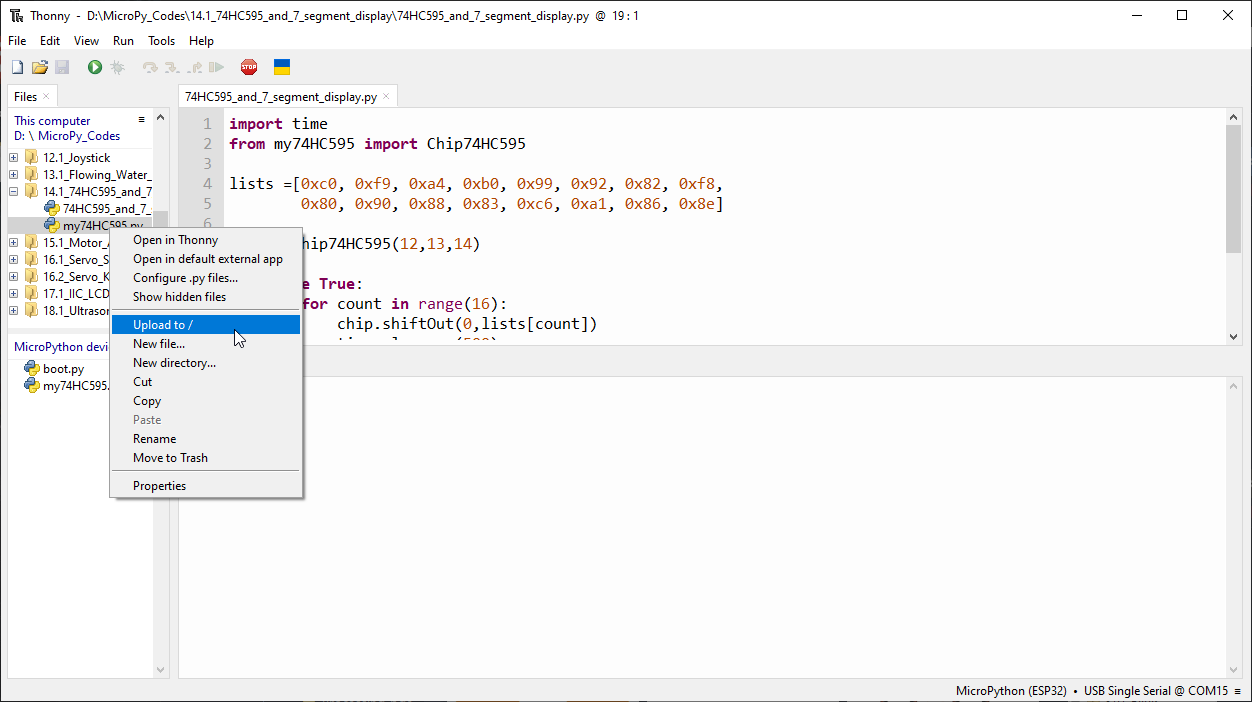
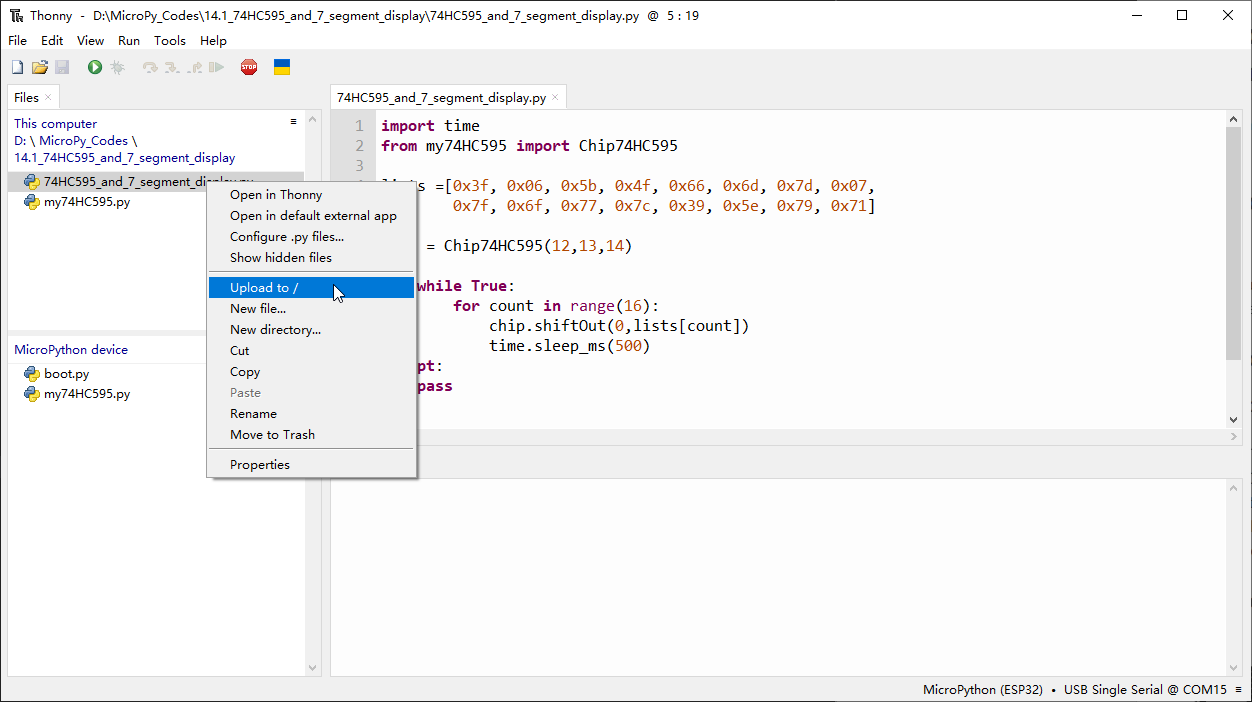
修改了python教程的一些错误

diff --git a/docs/source/2.Python_Tutorial/21_tcpip.rst b/docs/source/2.Python_Tutorial/21_tcpip.rst
@@ -31,24 +31,23 @@ Install ControlP5.
 
 .. image:: img/other/processing0.png
     
-Open the “Super_Starter_Kit_for_ESP32_S3\Sketches\Sketches\Sketch_20.1_W
-iFiClient\sketchWiFi\sketchWiFi.pde”, and click "Run".
+Open the “Super_Starter_Kit_for_ESP32_S3\\processing\\Processing_wifi.pde”, and click "Run".
 
 .. image:: img/other/processing_code.png
 
 The new pop-up interface is as follows. If ESP32-S3 is used as client, select 
-TCP SERVER mode for sketchWiFi
+TCP SERVER mode for Processing_wifi
 
 .. image:: img/other/processing4.png
 
-When sketchWiFi selects TCP SERVER mode, ESP32-S3 Sketch needs to be changed 
-according to sketchWiFi's displaying of LOCAL IP or LOCAL PORT.
+When Processing_wifi selects TCP SERVER mode, ESP32-S3 Sketch needs to be changed 
+according to Processing_wifi's displaying of LOCAL IP or LOCAL PORT.
 
-If ESP32-S3 serves as server, select TCP CLIENT mode for sketchWiFi.
+If ESP32-S3 serves as server, select TCP CLIENT mode for Processing_wifi.
 
-.. image:: img/other/processing4.png
+.. image:: img/other/processing4-1.png
 
-When sketchWiFi selects TCP CLIENT mode, the LOCAL IP and LOCAL PORT of sketchWiFi 
+When Processing_wifi selects TCP CLIENT mode, the LOCAL IP and LOCAL PORT of Processing_wifi 
 need to be changed according to the IP address and port number printed by the serial 
 monitor.
 
@@ -79,14 +78,14 @@ Connect
 
 Code
 ^^^^^^^^^^^
-Before running the Code, please open “sketchWiFi.pde.” first, and click “Run”.
+Before running the Code, please open “Processing_wifi.pde.” first, and click “Run”.
 
 .. image:: img/other/processing_code.png
 
 The newly pop up window will use the computer’s IP address by default and open a 
 data monitor port. Click “Listening”。
 
-.. image:: img/other/processing4.png
+.. image:: img/other/processing4-2.png
 
 Move the program folder “Super_Starter_Kit_for_ESP32_S3/Python/Python_C
 odes” to disk(D) in advance with the path of “D:/Micropython_Codes”.
@@ -103,11 +102,11 @@ in the box below:
 .. image:: img/software/21.1.png
 
 Click “Run current script” and in “Shell”, you can see ESP32-S3 automatically 
-connects to sketchWiFi.
+connects to Processing_wifi.
 
 .. image:: img/software/21.1-1.png
 
-If you don’t click “Listening” for sketchWiFi, ESP32-S3 will fail to connect and 
+If you don’t click “Listening” for Processing_wifi, ESP32-S3 will fail to connect and 
 will print information as follows:
 
 .. image:: img/software/21.1-2.png
@@ -180,11 +179,11 @@ Code
 Move the program folder “Super_Starter_Kit_for_ESP32_S3/Python/Python_C
 odes” to disk(D) in advance with the path of “D:/Micropython_Codes”.
 
-Open “Thonny”, click “This computer” >> “D:” >> “Micropython_Codes” >> “21.2_TCP_a
-s_Server” and double click “TCP_as_Server.py”.
+Open “Thonny”, click “This computer” >> “D:” >> “Micropython_Codes” >> “21.2_TCP_as_Server” and double click “TCP_as_Server.py”.
 
 Before clicking “Run current script”, please modify the name and password of your 
 router shown in the box below.
+
 **21.2_TCP_as_Server**
 
 .. image:: img/software/21.2.png
@@ -196,15 +195,15 @@ waiting to connecting to other network devices.
 .. image:: img/software/21.2-1.png
 
 Processing： Open the “Super_Starter_Kit_for_ESP32_S3/Codes/MicroPytho
-n_Codes/21.2_TCP_as_Server/ sketchWiFi/sketchWiFi.pde”. Based on the message 
+n_Codes/21.2_TCP_as_Server/sketchWiFi/Processing_wifi.pde”. Based on the message 
 printed in "Shell", enter the correct IP address and port when processing, and 
 click to establish a connection with ESP32-S3 to communicate.
 
 .. image:: img/software/21.2-2.png
 
-You can enter any information in the “Send Box” of sketchWiFi. Click “Send” and 
+You can enter any information in the “Send Box” of Processing_wifi. Click “Send” and 
 ESP32-S3 will print the received messages to “Shell” and send them back to 
-sketchWiFi.
+Processing_wifi.
 
 .. image:: img/software/21.2-3.png
 

diff --git a/docs/source/2.Python_Tutorial/13_74hc595&led_bar_graph.rst b/docs/source/2.Python_Tutorial/13_74hc595&led_bar_graph.rst
@@ -28,14 +28,16 @@ Connect
 
 Code
 ^^^^^^^
-n this project, we will make a flowing water light with a 74HC595 chip to learn 
+In this project, we will make a flowing water light with a 74HC595 chip to learn 
 about its functions. Move the program folder “Super_Starter_Kit_for_ESP
 32_S3/Python/Python_Codes” to disk(D) in advance with the path of “D:/Micropyth
 on_Codes”. 
+
 Open “Thonny”, click “This computer” >> “D:” >> “Micropython_Codes” >> “1
 3.1_Flowing_Water_Light”. Select “my74HC595.py”, right click your mouse to selec
 t “Upload to /”, wait for “my74HC595.py”to be uploaded to ESP32-S3 and then doub
 le click “Flowing_Water_Light.py”.
+
 **13.1_Flowing_Water_Light**
 
 .. image:: img/software/13.1.png

diff --git a/docs/source/2.Python_Tutorial/4_analog&pwm.rst b/docs/source/2.Python_Tutorial/4_analog&pwm.rst
@@ -34,6 +34,7 @@ folder “Super_Starter_Kit_for_ESP32_S3/Python/Python_Codes” to disk(D)
 in advance with the path of “D:/Micropython_Codes”. Open “Thonny”，click“This 
 computer” >> “D:” >> “Micropython_Codes” >> “04.1_BreatheLight” and double click 
 “BreatheLight.py”.
+
 **04.1_BreatheLight**
 
 .. image:: img/software/4.1.png
@@ -89,6 +90,7 @@ Flowing Light with tail was implemented with PWM. Open “Thonny”, click “Th
 computer” >> “D:” >> “Micropython_Codes” >> “04.2_FlowingLight”. Select “pwm.py”, 
 right click to select “Upload to /”, wait for “pwm.py” to be uploaded to ESP32-S
 3 and then double click “FlowingLight.py”.
+
 **04.2_FlowingLight**
 
 .. image:: img/software/4.2.png

diff --git a/docs/source/2.Python_Tutorial/14_74hc595&7-segment_display.rst b/docs/source/2.Python_Tutorial/14_74hc595&7-segment_display.rst
@@ -44,7 +44,7 @@ gment_display.py”.
 Click “Run current script”，and you'll see a 1-bit, 7-segment display displaying 
 0-f in a loop.
 
-.. image:: img/phenomenon/15.1.png
+.. image:: img/phenomenon/14.1.png
 
 Code
 ^^^^^^
@@ -55,8 +55,8 @@ The following is the program code:
     import time
     from my74HC595 import Chip74HC595
 
-    lists =[0xc0, 0xf9, 0xa4, 0xb0, 0x99, 0x92, 0x82, 0xf8,
-            0x80, 0x90, 0x88, 0x83, 0xc6, 0xa1, 0x86, 0x8e]
+    lists =[0x3f, 0x06, 0x5b, 0x4f, 0x66, 0x6d, 0x7d, 0x07,
+            0x7f, 0x6f, 0x77, 0x7c, 0x39, 0x5e, 0x79, 0x71]
 
     chip = Chip74HC595(12,13,14)
     try:
@@ -66,6 +66,7 @@ The following is the program code:
                 time.sleep_ms(500)
     except:
         pass
+
 
 
 

diff --git a/docs/source/2.Python_Tutorial/1_led.rst b/docs/source/2.Python_Tutorial/1_led.rst
@@ -51,7 +51,7 @@ the illustration below.
 
 Make sure ESP32-S3 has been connected with the computer with ESP32-S3 correctly. 
 Click “Stop/Restart backend” or press the reset button, and then wait to see what 
-interface will show up.
+interface will sho  w up.
 
 .. image:: img/software/1.2.png
 
@@ -66,12 +66,17 @@ and the LED in the circuit starts to blink.
 .. image:: img/software/1.3.png
 
 **Uploading code to ESP32S3**
+
 As shown in the following illustration, right-click the file Blink.py and select 
 “Upload to /” to upload code to ESP32S3.
 
 .. image:: img/software/1.4.png
 
 Upload boot.py in the same way.
+
+.. image:: img/software/1.5-1.png
+
+.. image:: img/software/1.5-2.png
 
 .. image:: img/software/1.5.png
 

diff --git a/docs/source/2.Python_Tutorial/20_wifi_working_modes.rst b/docs/source/2.Python_Tutorial/20_wifi_working_modes.rst
@@ -44,8 +44,8 @@ The following is the program code:
     import time
     import network
 
-    ssidRouter     = '2A804' #Enter the router name
-    passwordRouter = 'la1234567890' #Enter the router password
+    ssidRouter     = 'xxxxxxxx' #Enter the router name
+    passwordRouter = 'xxxxxxxx' #Enter the router password
 
     def STA_Setup(ssidRouter,passwordRouter):
         print("Setup start")
@@ -68,9 +68,8 @@ The following is the program code:
 Project 20.2 AP mode 
 ------------------------
 
-Component List & Circuit
-^^^^^^^^^^^^^^^^^^^^^^^^^^
 Component List & Circuit are the same as in Project 20.1.
+^^^^^^^^^^^^^^^^^^^^^^^^^^^^^^^^^^^^^^^^^^^^^^^^^^^^^^^^^^^^
 
 Circuit
 ^^^^^^^

diff --git a/docs/source/2.Python_Tutorial/3_led_bar.rst b/docs/source/2.Python_Tutorial/3_led_bar.rst
@@ -27,7 +27,9 @@ This project is designed to make a flowing water lamp. Which are these actions:
 First turn LED #1 ON, then turn it OFF. Then turn LED #2 ON, and then turn it 
 OFF... and repeat the same to all 10 LEDs until the last LED is turns OFF. This 
 process is repeated to achieve the “movements” of flowing water.
+
 **03.1_FlowingLight**
+
 Move the program folder “Super_Starter_Kit_for_ESP32_S3/Python/Python_Co
 des” to disk(D) in advance with the path of “D:/Micropython_Codes”. Open “Thonny
 ”，click “This computer” >> “D:” >> “Micropython_Codes” >> “03.1_FlowingLight” and d

diff --git a/docs/source/2.Python_Tutorial/5_rgb_led.rst b/docs/source/2.Python_Tutorial/5_rgb_led.rst
@@ -26,12 +26,12 @@ Code
 ^^^^^^^
 We need to create three PWM channels and use random duty cycle to make random 
 RGBLED color.
-
 Move the program folder “Super_Starter_Kit_for_ESP32_S3/Python/Python_C
 odes” to disk(D) in advance with the path of “D:/Micropython_Codes”.
 
 Open “Thonny”, click “This computer” >> “D:” >> “Micropython_Codes” >> “05.1_Random
 ColorLight”and double click “RandomColorLight.py”.
+
 **05.1_RandomColorLight**
 
 .. image:: img/software/5.1.png

diff --git a/docs/source/2.Python_Tutorial/12_joystick.rst b/docs/source/2.Python_Tutorial/12_joystick.rst
@@ -48,7 +48,6 @@ The following is the program code:
 
     xVal=ADC(Pin(14))
     yVal=ADC(Pin(13))
-    zVal=Pin(12,Pin.IN,Pin.PULL_UP)
 
     xVal.atten(ADC.ATTN_11DB)
     yVal.atten(ADC.ATTN_11DB)
@@ -56,8 +55,15 @@ The following is the program code:
     yVal.width(ADC.WIDTH_12BIT)
 
     while True:
-    print("X,Y,Z:",xVal.read(),",",yVal.read(),",",zVal.value())
+    print("X,Y:",xVal.read(),",",yVal.read())
     time.sleep(1)
+
+    
+    
+    
+    
+    
+
 
   
   

diff --git a/docs/source/2.Python_Tutorial/2_button&led.rst b/docs/source/2.Python_Tutorial/2_button&led.rst
@@ -100,7 +100,7 @@ too fast for humans to detect but not for computer microcontrollers. The same is
 true when the push button switch is released. This unwanted phenomenon is known 
 as “bounce”.
 
-.. image:: img/other/
+.. image:: img/other/2.2.png
 
 Therefore, if we can directly detect the state of the push button switch, there 
 are multiple pressing and releasing actions in one pressing cycle. This buffeting 

diff --git a/docs/source/2.Python_Tutorial/15_relay&motor.rst b/docs/source/2.Python_Tutorial/15_relay&motor.rst
@@ -36,6 +36,7 @@ Move the program folder “Super_Starter_Kit_for_ESP32_S3/Python/Python_C
 odes” to disk(D) in advance with the path of “D:/Micropython_Codes”. 
 Open “Thonny”, click “This computer” >> “D:” >> “Micropython_Codes” >> “15.2_Moto
 r_And_Driver” and double click “Motor_And_Driver.py”.
+
 **15.1_Motor_And_Driver**
 
 .. image:: img/software/15.1.png

diff --git a/docs/source/2.Python_Tutorial/11_thermistor.rst b/docs/source/2.Python_Tutorial/11_thermistor.rst
@@ -30,6 +30,7 @@ Move the program folder “Super_Starter_Kit_for_ESP32_S3/Python/Python_C
 odes” to disk(D) in advance with the path of “D:/Micropython_Codes”. 
 Open “Thonny”, click “This computer” >> “D:” >> “Micropython_Codes” >> “11.1_Thermo
 meter” and double click “Thermometer.py”.
+
 **11.1_Thermometer**
 
 .. image:: img/software/11.1.png
